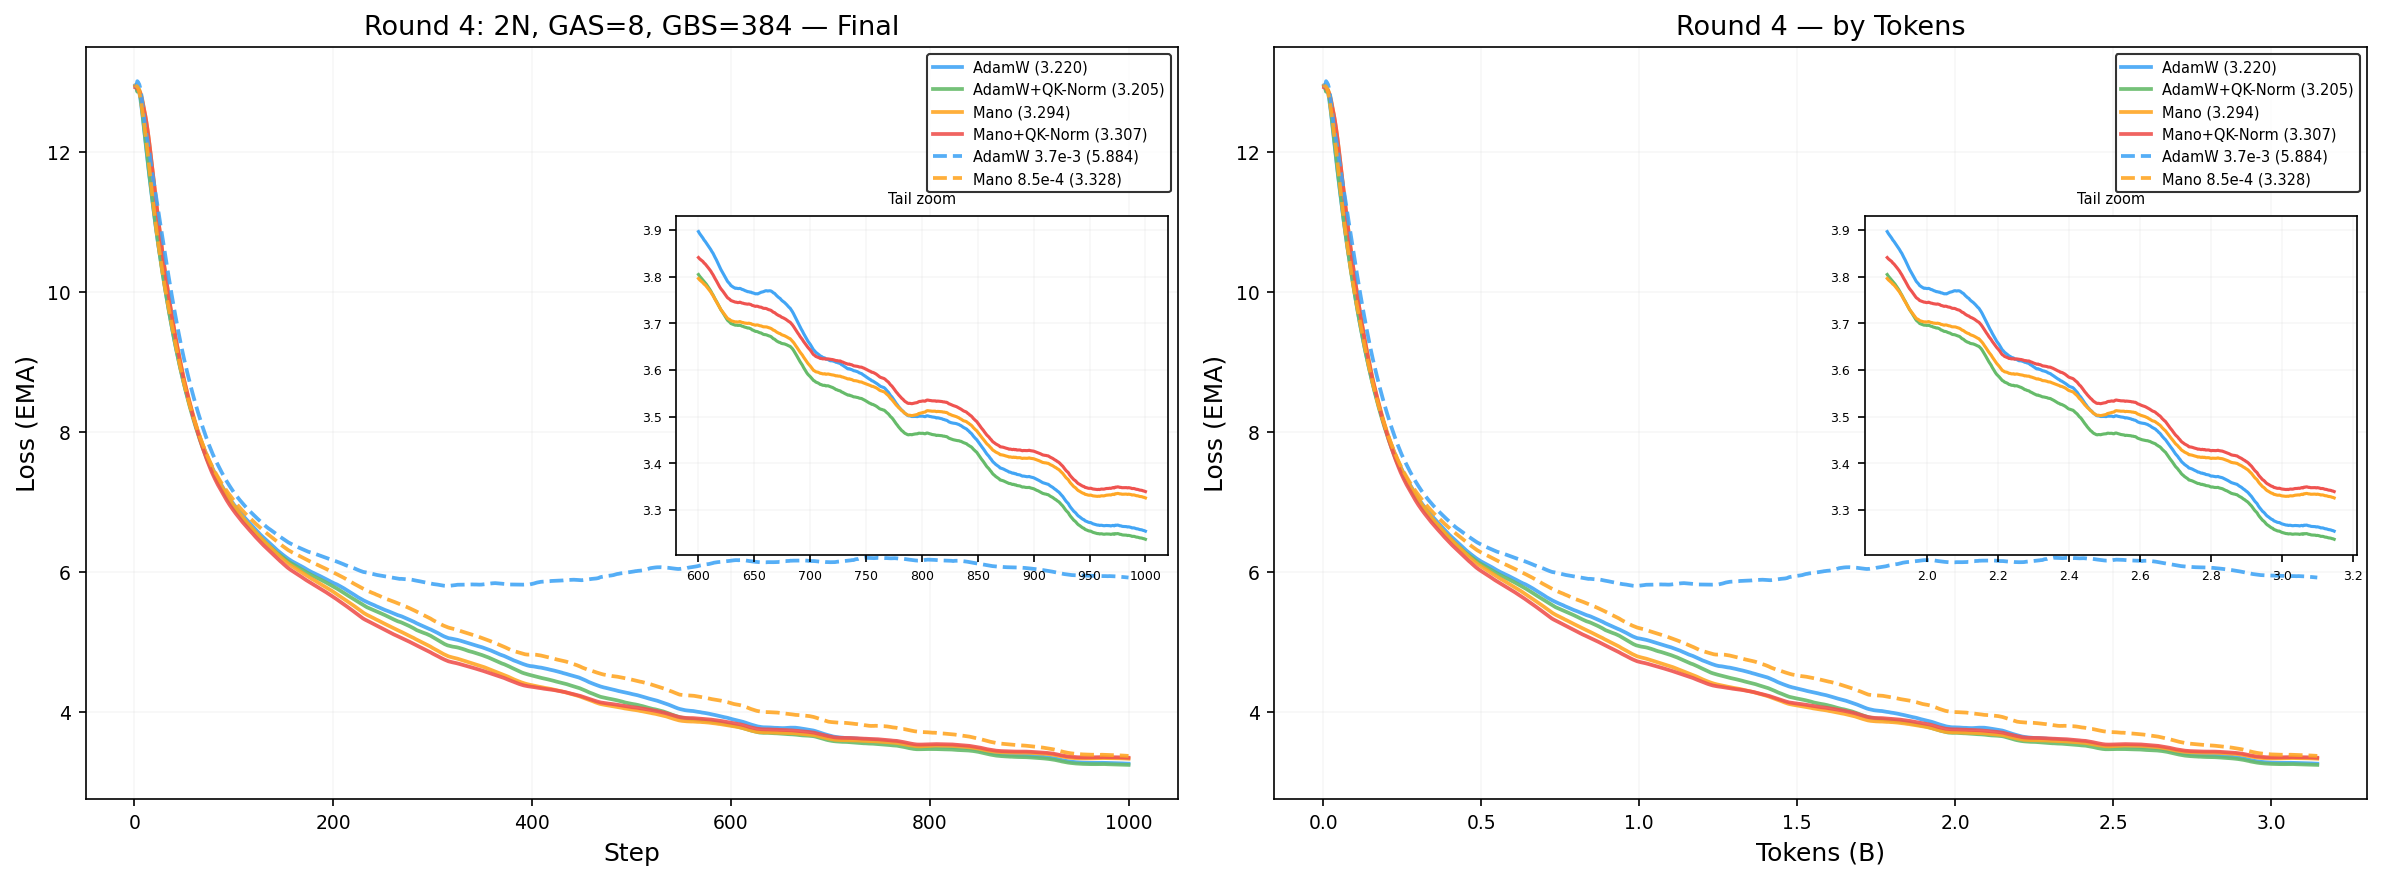
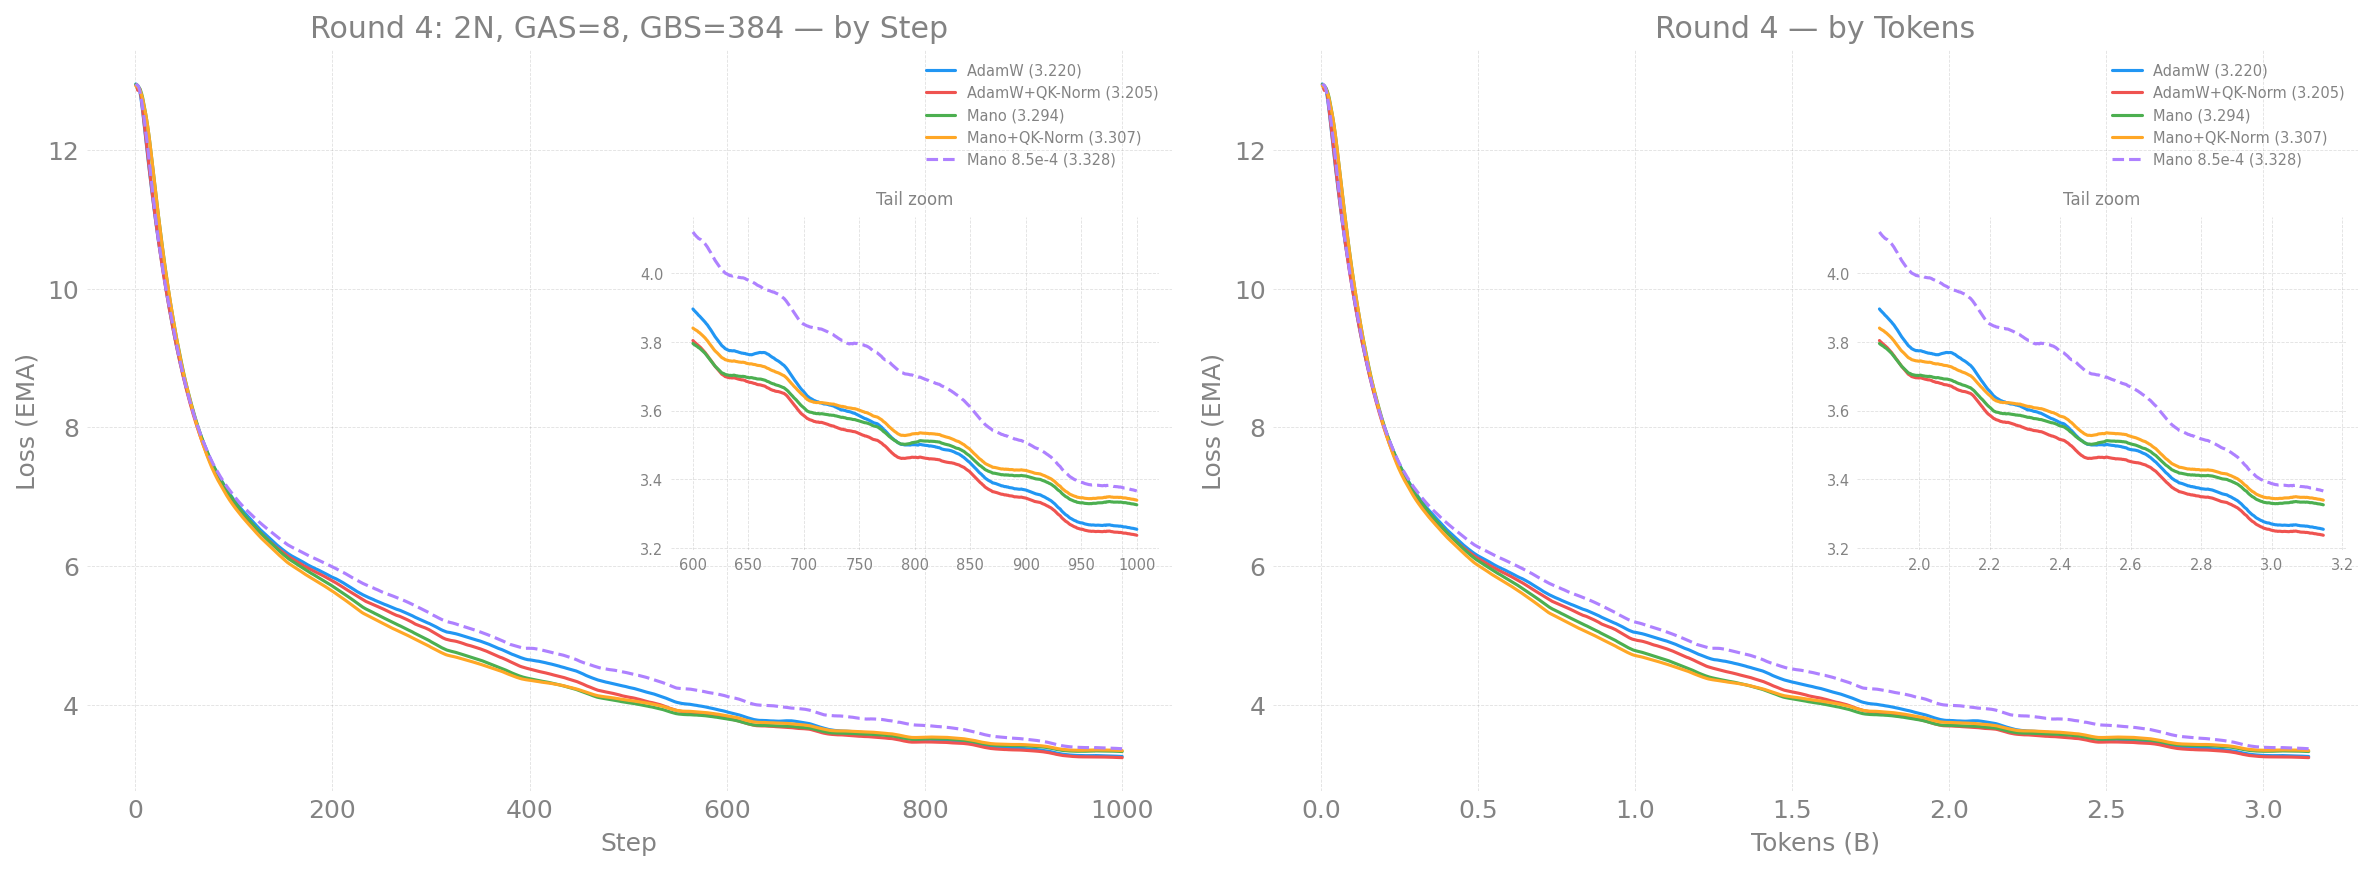
docs(ezpz): add training metrics plots and switch to ambivalent style
New 4-panel metrics plot (loss, grad_norm, TPS, MFU) for round 4.
All plots regenerated using ambivalent matplotlib style for cleaner
presentation with transparent backgrounds.

diff --git a/torchtitan/experiments/ezpz/docs/competitions/agpt2b-n2-gas8-1000steps/README.md b/torchtitan/experiments/ezpz/docs/competitions/agpt2b-n2-gas8-1000steps/README.md
@@ -22,11 +22,11 @@
 
 ## Loss Curves
 
-<picture>
-  <source media="(prefers-color-scheme: dark)" srcset="figures/loss_curves_dark.png">
-  <source media="(prefers-color-scheme: light)" srcset="figures/loss_curves_light.png">
-  <img alt="Loss curves" src="figures/loss_curves_light.png">
-</picture>
+![Loss curves](figures/loss_curves.png)
+
+## Training Metrics
+
+![Training metrics](figures/metrics.png)
 
 ## Results
 
